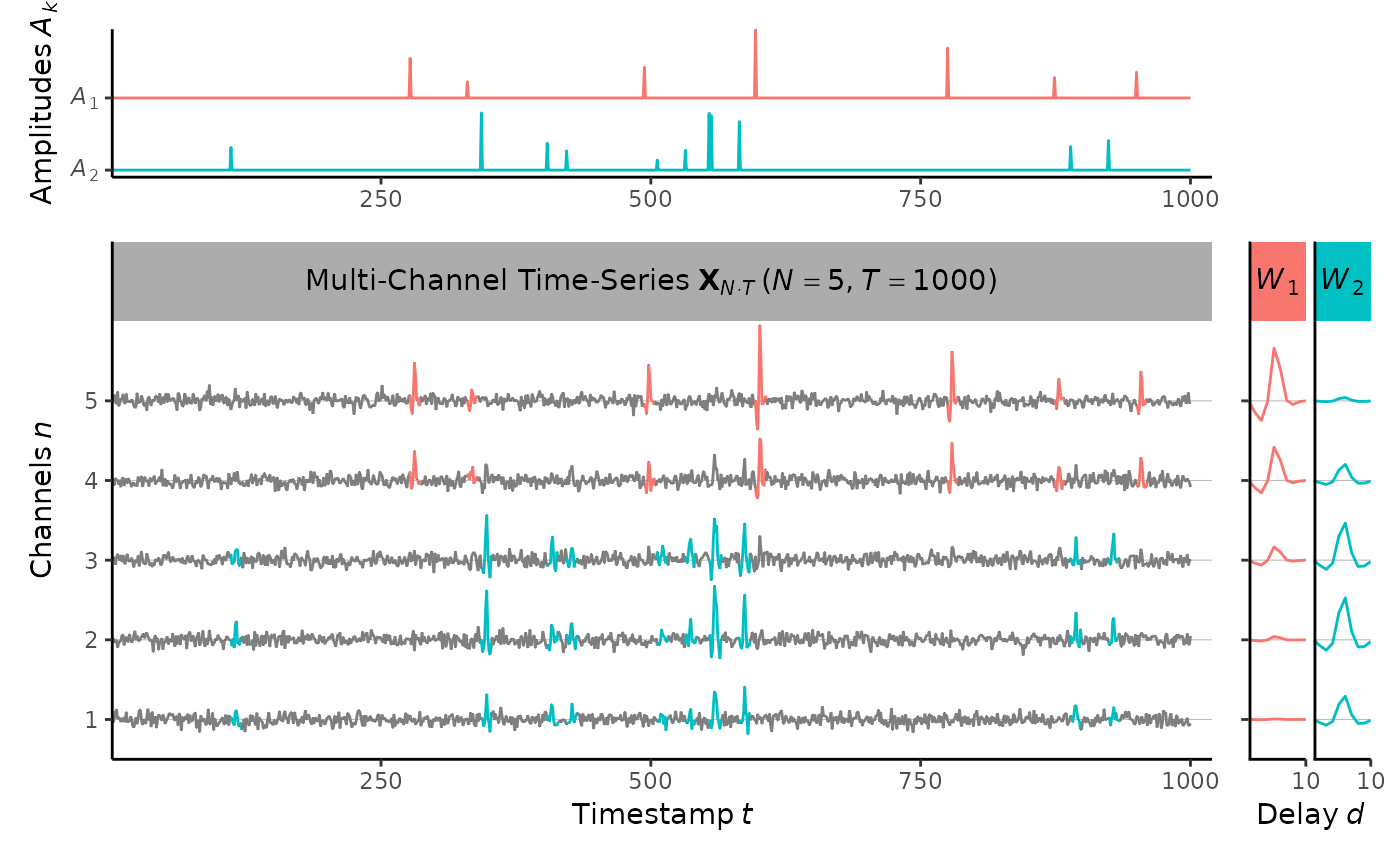
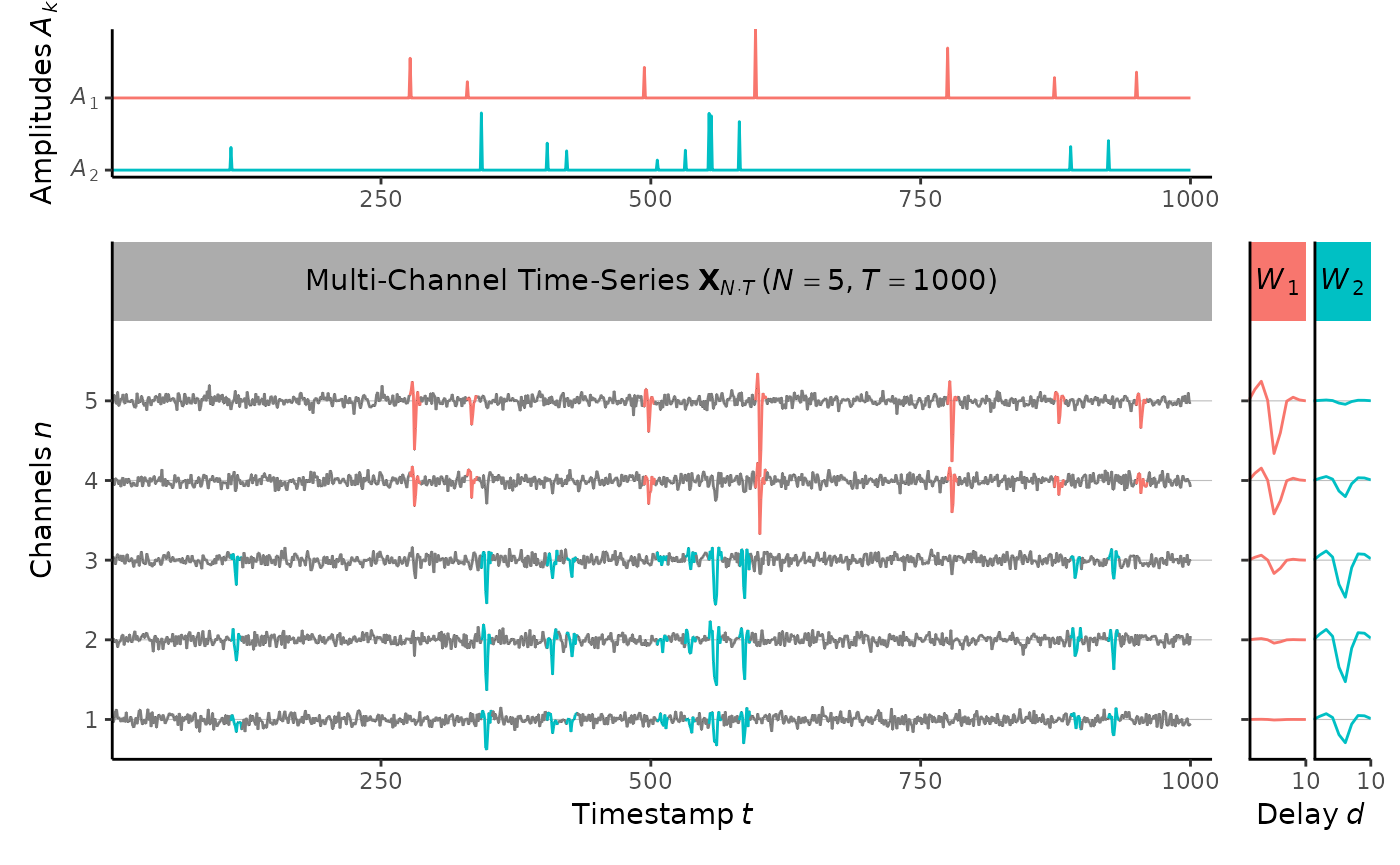
Deploying to gh-pages from @ rinseo/convNMF@f8b2ad1071cdc6ac6789718ddc3bc7890deb76a5 🚀

diff --git a/articles/getting-started.html b/articles/getting-started.html
@@ -81,6 +81,7 @@
 <span>  num_samples<span class="op">=</span><span class="fl">1000</span>, <span class="co"># number of samples</span></span>
 <span>  sample_freq<span class="op">=</span><span class="fl">1000</span>, <span class="co"># number of samples per unit time</span></span>
 <span>  num_neurons<span class="op">=</span><span class="fl">2</span>, <span class="co"># number of neurons</span></span>
+<span>  warp<span class="op">=</span><span class="kw">function</span><span class="op">(</span><span class="va">x</span><span class="op">)</span> <span class="op">-</span><span class="fu"><a href="https://rdrr.io/r/base/Log.html" class="external-link">exp</a></span><span class="op">(</span><span class="op">-</span><span class="va">x</span><span class="op">)</span> <span class="op">+</span> <span class="fl">1</span>, <span class="co"># negative spike</span></span>
 <span>  len_wavelet<span class="op">=</span><span class="fl">10</span>, <span class="co"># length of spikes</span></span>
 <span>  mean_spikes<span class="op">=</span><span class="fl">10</span>, <span class="co"># expected number of spikes per unit time</span></span>
 <span>  mean_amplitude<span class="op">=</span><span class="fl">15</span>, <span class="co"># alpha/beta of Gamma (alpha, beta)</span></span>
@@ -99,11 +100,13 @@
 <h2 id="fit-convnmf-model">2. Fit ConvNMF model<a class="anchor" aria-label="anchor" href="#fit-convnmf-model"></a>
 </h2>
 <div class="sourceCode" id="cb4"><pre class="downlit sourceCode r">
-<code class="sourceCode R"><span><span class="va">est</span> <span class="op">&lt;-</span> <span class="fu"><a href="../reference/convNMF.html">convNMF</a></span><span class="op">(</span></span>
+<code class="sourceCode R"><span><span class="fu"><a href="https://rdrr.io/r/base/Random.html" class="external-link">set.seed</a></span><span class="op">(</span><span class="fl">1</span><span class="op">)</span></span>
+<span><span class="va">est</span> <span class="op">&lt;-</span> <span class="fu"><a href="../reference/convNMF.html">convNMF</a></span><span class="op">(</span></span>
 <span>  data<span class="op">=</span><span class="va">init</span><span class="op">@</span><span class="va">data</span><span class="op">@</span><span class="va">value</span>, <span class="co"># multi-channel time-series array (NxT)</span></span>
 <span>  sample_freq<span class="op">=</span><span class="fl">1000</span>, <span class="co"># number of samples per unit time</span></span>
 <span>  num_neurons<span class="op">=</span><span class="fl">2</span>, <span class="co"># number of neurons</span></span>
 <span>  len_wavelet<span class="op">=</span><span class="fl">10</span>, <span class="co"># length of spikes</span></span>
+<span>  warp<span class="op">=</span><span class="kw">function</span><span class="op">(</span><span class="va">x</span><span class="op">)</span> <span class="op">-</span><span class="fu"><a href="https://rdrr.io/r/base/Log.html" class="external-link">exp</a></span><span class="op">(</span><span class="op">-</span><span class="va">x</span><span class="op">)</span> <span class="op">+</span> <span class="fl">1</span>, <span class="co"># negative spike</span></span>
 <span>  mean_spikes<span class="op">=</span><span class="fl">10</span>, <span class="co"># expected number of spikes per unit time</span></span>
 <span>  mean_amplitude<span class="op">=</span><span class="fl">15</span>, <span class="co"># alpha/beta of Gamma (alpha, beta)</span></span>
 <span>  shape_amplitude<span class="op">=</span><span class="fl">3</span>, <span class="co"># alpha of Gamma (alpha, beta)</span></span>
@@ -117,7 +120,7 @@
 <span><span class="co">#&gt; Using (N x T) = (5 x 1000) data.</span></span>
 <span><span class="co">#&gt; Generating (K x N x D) = (2 x 5 x 10) wavelets.</span></span>
 <span><span class="co">#&gt; Initializing (K x T) = (2 x 1000) amplitudes.</span></span>
-<span><span class="co">#&gt; Iteration [8/50] Convergence detected!</span></span>
+<span><span class="co">#&gt; Iteration [4/50] Convergence detected!</span></span>
 <span><span class="fu"><a href="https://rdrr.io/r/graphics/plot.default.html" class="external-link">plot</a></span><span class="op">(</span><span class="va">est</span><span class="op">)</span></span></code></pre></div>
 <p><img src="getting-started_files/figure-html/unnamed-chunk-2-1.png" width="700"></p>
 <div class="sourceCode" id="cb5"><pre class="downlit sourceCode r">
@@ -133,21 +136,21 @@
 <p><img src="getting-started_files/figure-html/unnamed-chunk-3-1.png" width="700"></p>
 <div class="sourceCode" id="cb7"><pre class="downlit sourceCode r">
 <code class="sourceCode R"><span><span class="fu"><a href="https://rdrr.io/r/base/sprintf.html" class="external-link">sprintf</a></span><span class="op">(</span><span class="st">"logLik = %.2f"</span>,<span class="fu"><a href="https://rdrr.io/r/stats/logLik.html" class="external-link">logLik</a></span><span class="op">(</span><span class="va">est</span><span class="op">)</span><span class="op">)</span></span>
-<span><span class="co">#&gt; [1] "logLik = -7309.34"</span></span>
+<span><span class="co">#&gt; [1] "logLik = -7288.39"</span></span>
 <span><span class="fu"><a href="https://rdrr.io/r/base/sprintf.html" class="external-link">sprintf</a></span><span class="op">(</span><span class="st">"%% power explained = %.2f"</span>,<span class="fu"><a href="../reference/power_explained.html">power_explained</a></span><span class="op">(</span><span class="va">est</span><span class="op">)</span><span class="op">)</span></span>
-<span><span class="co">#&gt; [1] "% power explained = 0.41"</span></span>
+<span><span class="co">#&gt; [1] "% power explained = 0.42"</span></span>
 <span><span class="fu"><a href="https://rdrr.io/r/base/sprintf.html" class="external-link">sprintf</a></span><span class="op">(</span><span class="st">"Sequenciness = %.2f"</span>,<span class="fu"><a href="../reference/sequenciness.html">sequenciness</a></span><span class="op">(</span><span class="va">est</span><span class="op">)</span><span class="op">)</span></span>
-<span><span class="co">#&gt; [1] "Sequenciness = 0.92"</span></span>
+<span><span class="co">#&gt; [1] "Sequenciness = 0.97"</span></span>
 <span><span class="fu"><a href="../reference/confusion_matrix.html">confusion_matrix</a></span><span class="op">(</span><span class="va">init</span>, <span class="va">est</span><span class="op">)</span></span>
 <span><span class="co">#&gt;                      (Prediction)</span></span>
 <span><span class="co">#&gt;                        Positive   Negative</span></span>
-<span><span class="co">#&gt; (Reference) Positive        420          0</span></span>
-<span><span class="co">#&gt;             Negative         26       4554</span></span>
+<span><span class="co">#&gt; (Reference) Positive        410          0</span></span>
+<span><span class="co">#&gt;             Negative         36       4554</span></span>
 <span><span class="co">#&gt; ------------------------------------------</span></span>
-<span><span class="co">#&gt;             Accuracy: TP/(TP+FN+FP) = 0.94 </span></span>
-<span><span class="co">#&gt;               Recall: TP/(TP+FN)    = 0.94 </span></span>
+<span><span class="co">#&gt;             Accuracy: TP/(TP+FN+FP) = 0.92 </span></span>
+<span><span class="co">#&gt;               Recall: TP/(TP+FN)    = 0.92 </span></span>
 <span><span class="co">#&gt;            Precision: TP/(TP+FP)    = 1.00 </span></span>
-<span><span class="co">#&gt;            Miss rate: FN/(TP+FN)    = 0.06 </span></span>
+<span><span class="co">#&gt;            Miss rate: FN/(TP+FN)    = 0.08 </span></span>
 <span><span class="co">#&gt; False discovery rate: FP/(TP+FP)    = 0.00</span></span>
 <span><span class="co"># extract_spikes(est) # based on 95% spikes</span></span></code></pre></div>
 </div>
@@ -161,11 +164,11 @@
 <span>  <span class="va">diss_list</span><span class="op">[</span><span class="va">K</span><span class="op">]</span> <span class="op">&lt;-</span> <span class="fu"><a href="../reference/compute_diss_matrix.html">compute_diss_matrix</a></span><span class="op">(</span><span class="va">est</span>, num_neurons<span class="op">=</span><span class="va">K</span><span class="op">)</span><span class="op">$</span><span class="va">mean_diss</span></span>
 <span>  <span class="fu"><a href="https://rdrr.io/r/base/print.html" class="external-link">print</a></span><span class="op">(</span><span class="fu"><a href="https://rdrr.io/r/base/sprintf.html" class="external-link">sprintf</a></span><span class="op">(</span><span class="st">"%d: %.2f"</span>,<span class="va">K</span>,<span class="va">diss_list</span><span class="op">[</span><span class="va">K</span><span class="op">]</span><span class="op">)</span><span class="op">)</span></span>
 <span><span class="op">}</span></span>
-<span><span class="co">#&gt; [1] "1: 0.03"</span></span>
-<span><span class="co">#&gt; [1] "2: 0.05"</span></span>
-<span><span class="co">#&gt; [1] "3: 0.23"</span></span>
-<span><span class="co">#&gt; [1] "4: 0.36"</span></span>
-<span><span class="co">#&gt; [1] "5: 0.45"</span></span>
+<span><span class="co">#&gt; [1] "1: 0.00"</span></span>
+<span><span class="co">#&gt; [1] "2: 0.02"</span></span>
+<span><span class="co">#&gt; [1] "3: 0.22"</span></span>
+<span><span class="co">#&gt; [1] "4: 0.33"</span></span>
+<span><span class="co">#&gt; [1] "5: 0.43"</span></span>
 <span><span class="fu"><a href="https://rdrr.io/r/graphics/plot.default.html" class="external-link">plot</a></span><span class="op">(</span><span class="va">diss_list</span>, type<span class="op">=</span><span class="st">"b"</span>, xlab<span class="op">=</span><span class="st">"K"</span>, ylab<span class="op">=</span><span class="st">"Dissimiliarity"</span><span class="op">)</span></span></code></pre></div>
 <p><img src="getting-started_files/figure-html/unnamed-chunk-4-1.png" width="700"></p>
 </div>
